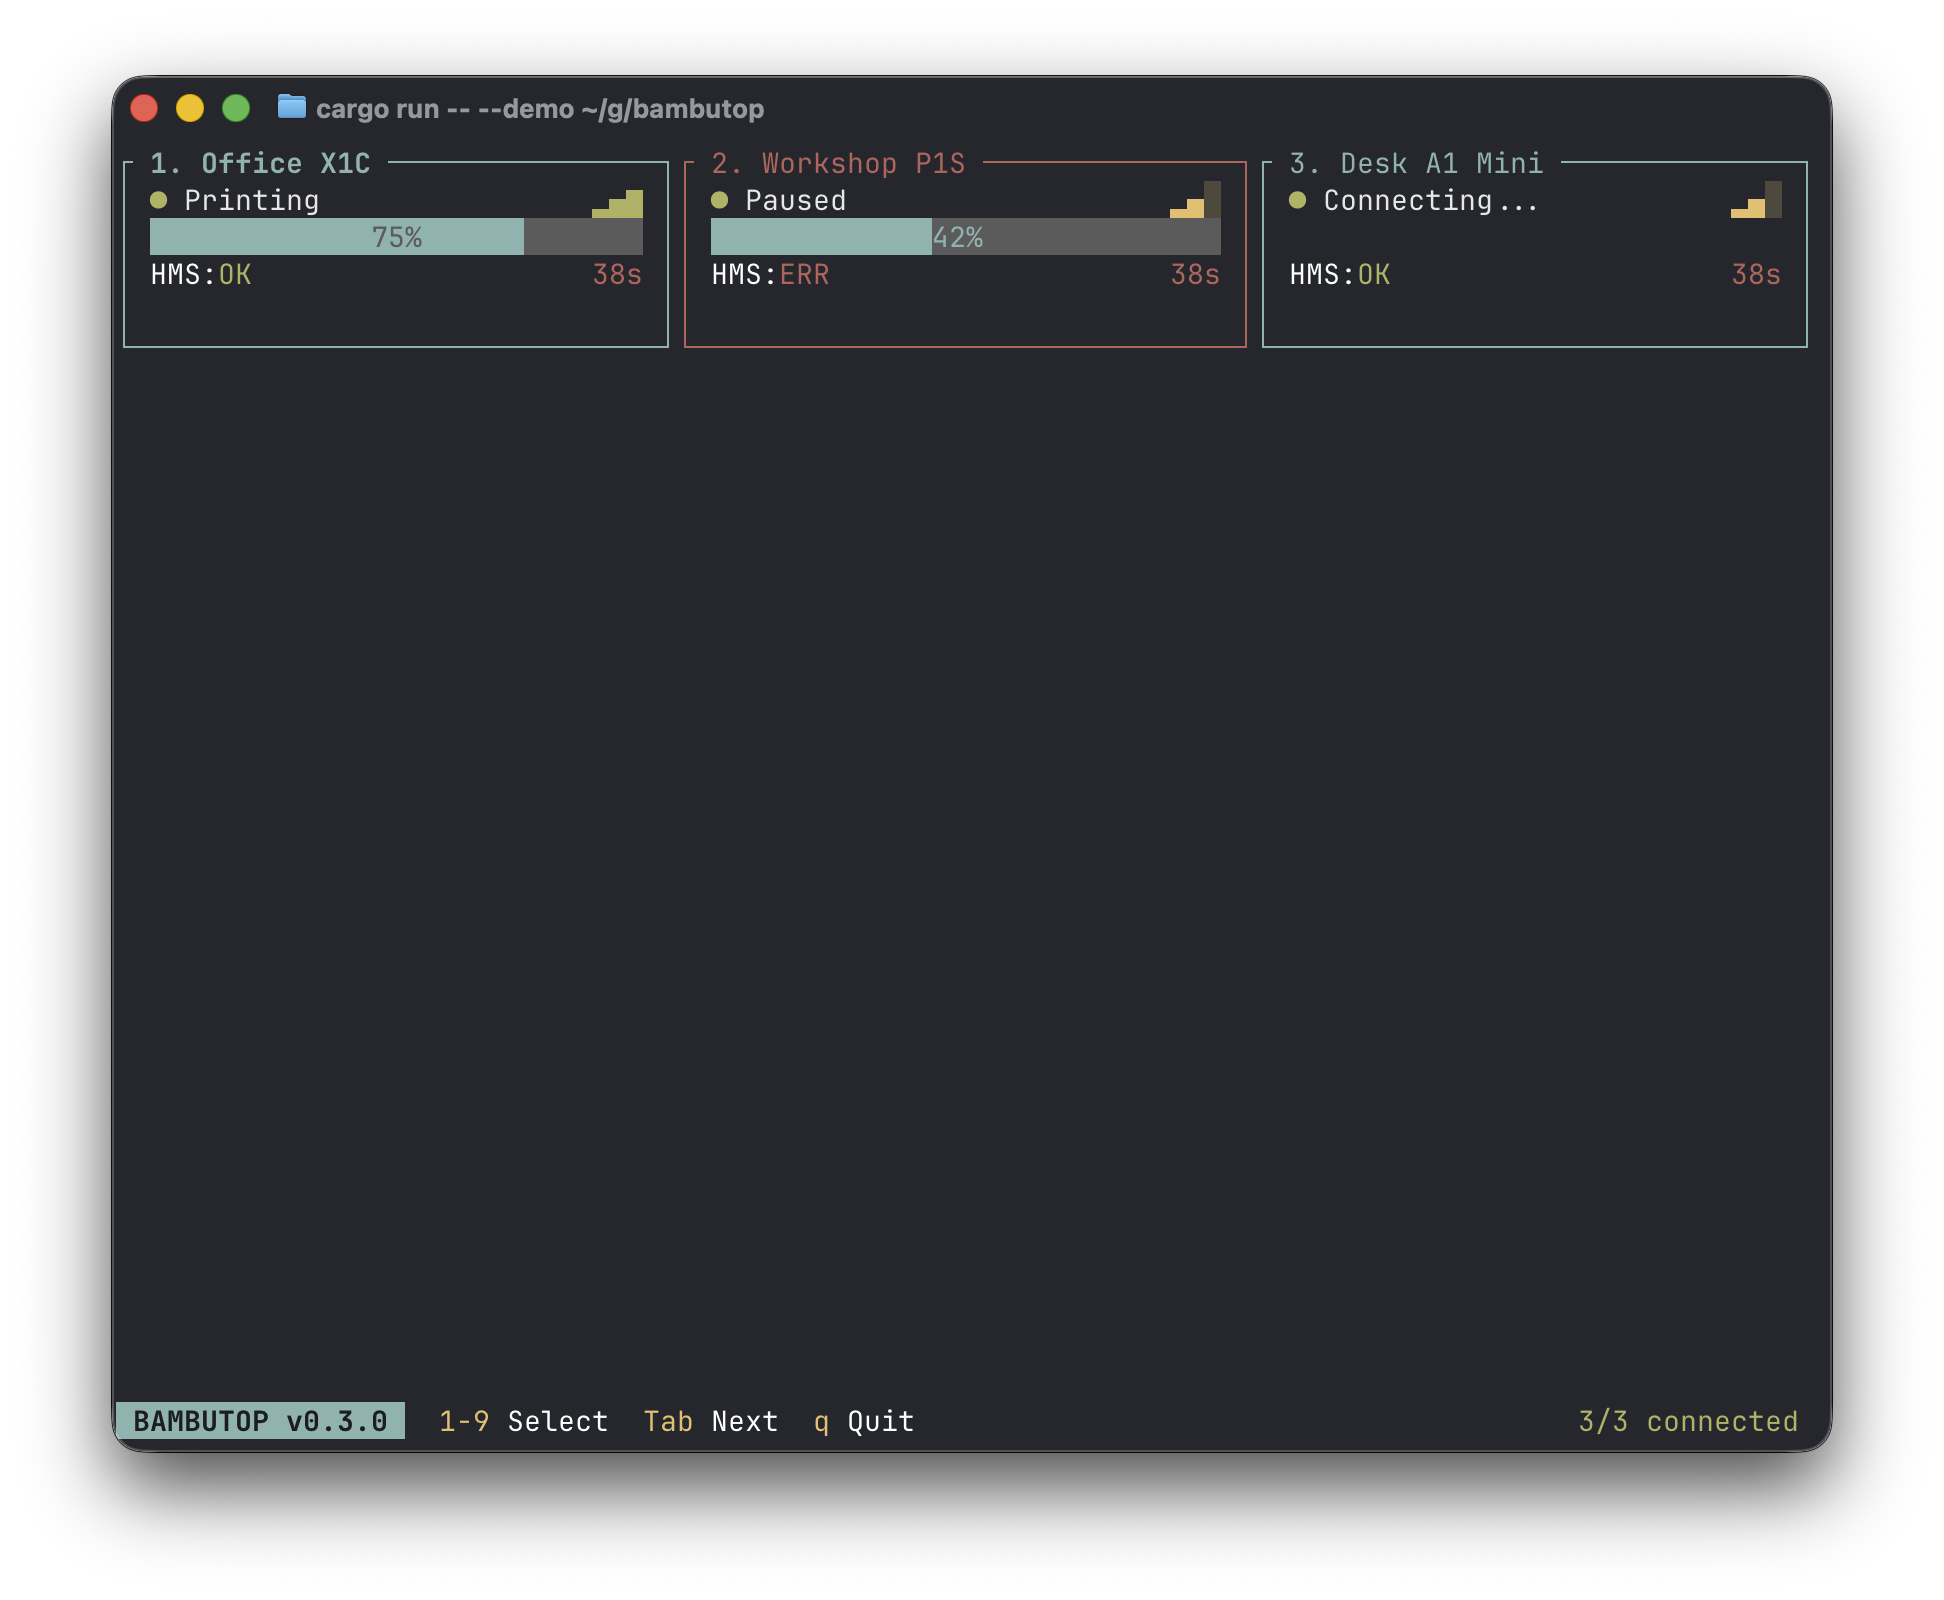
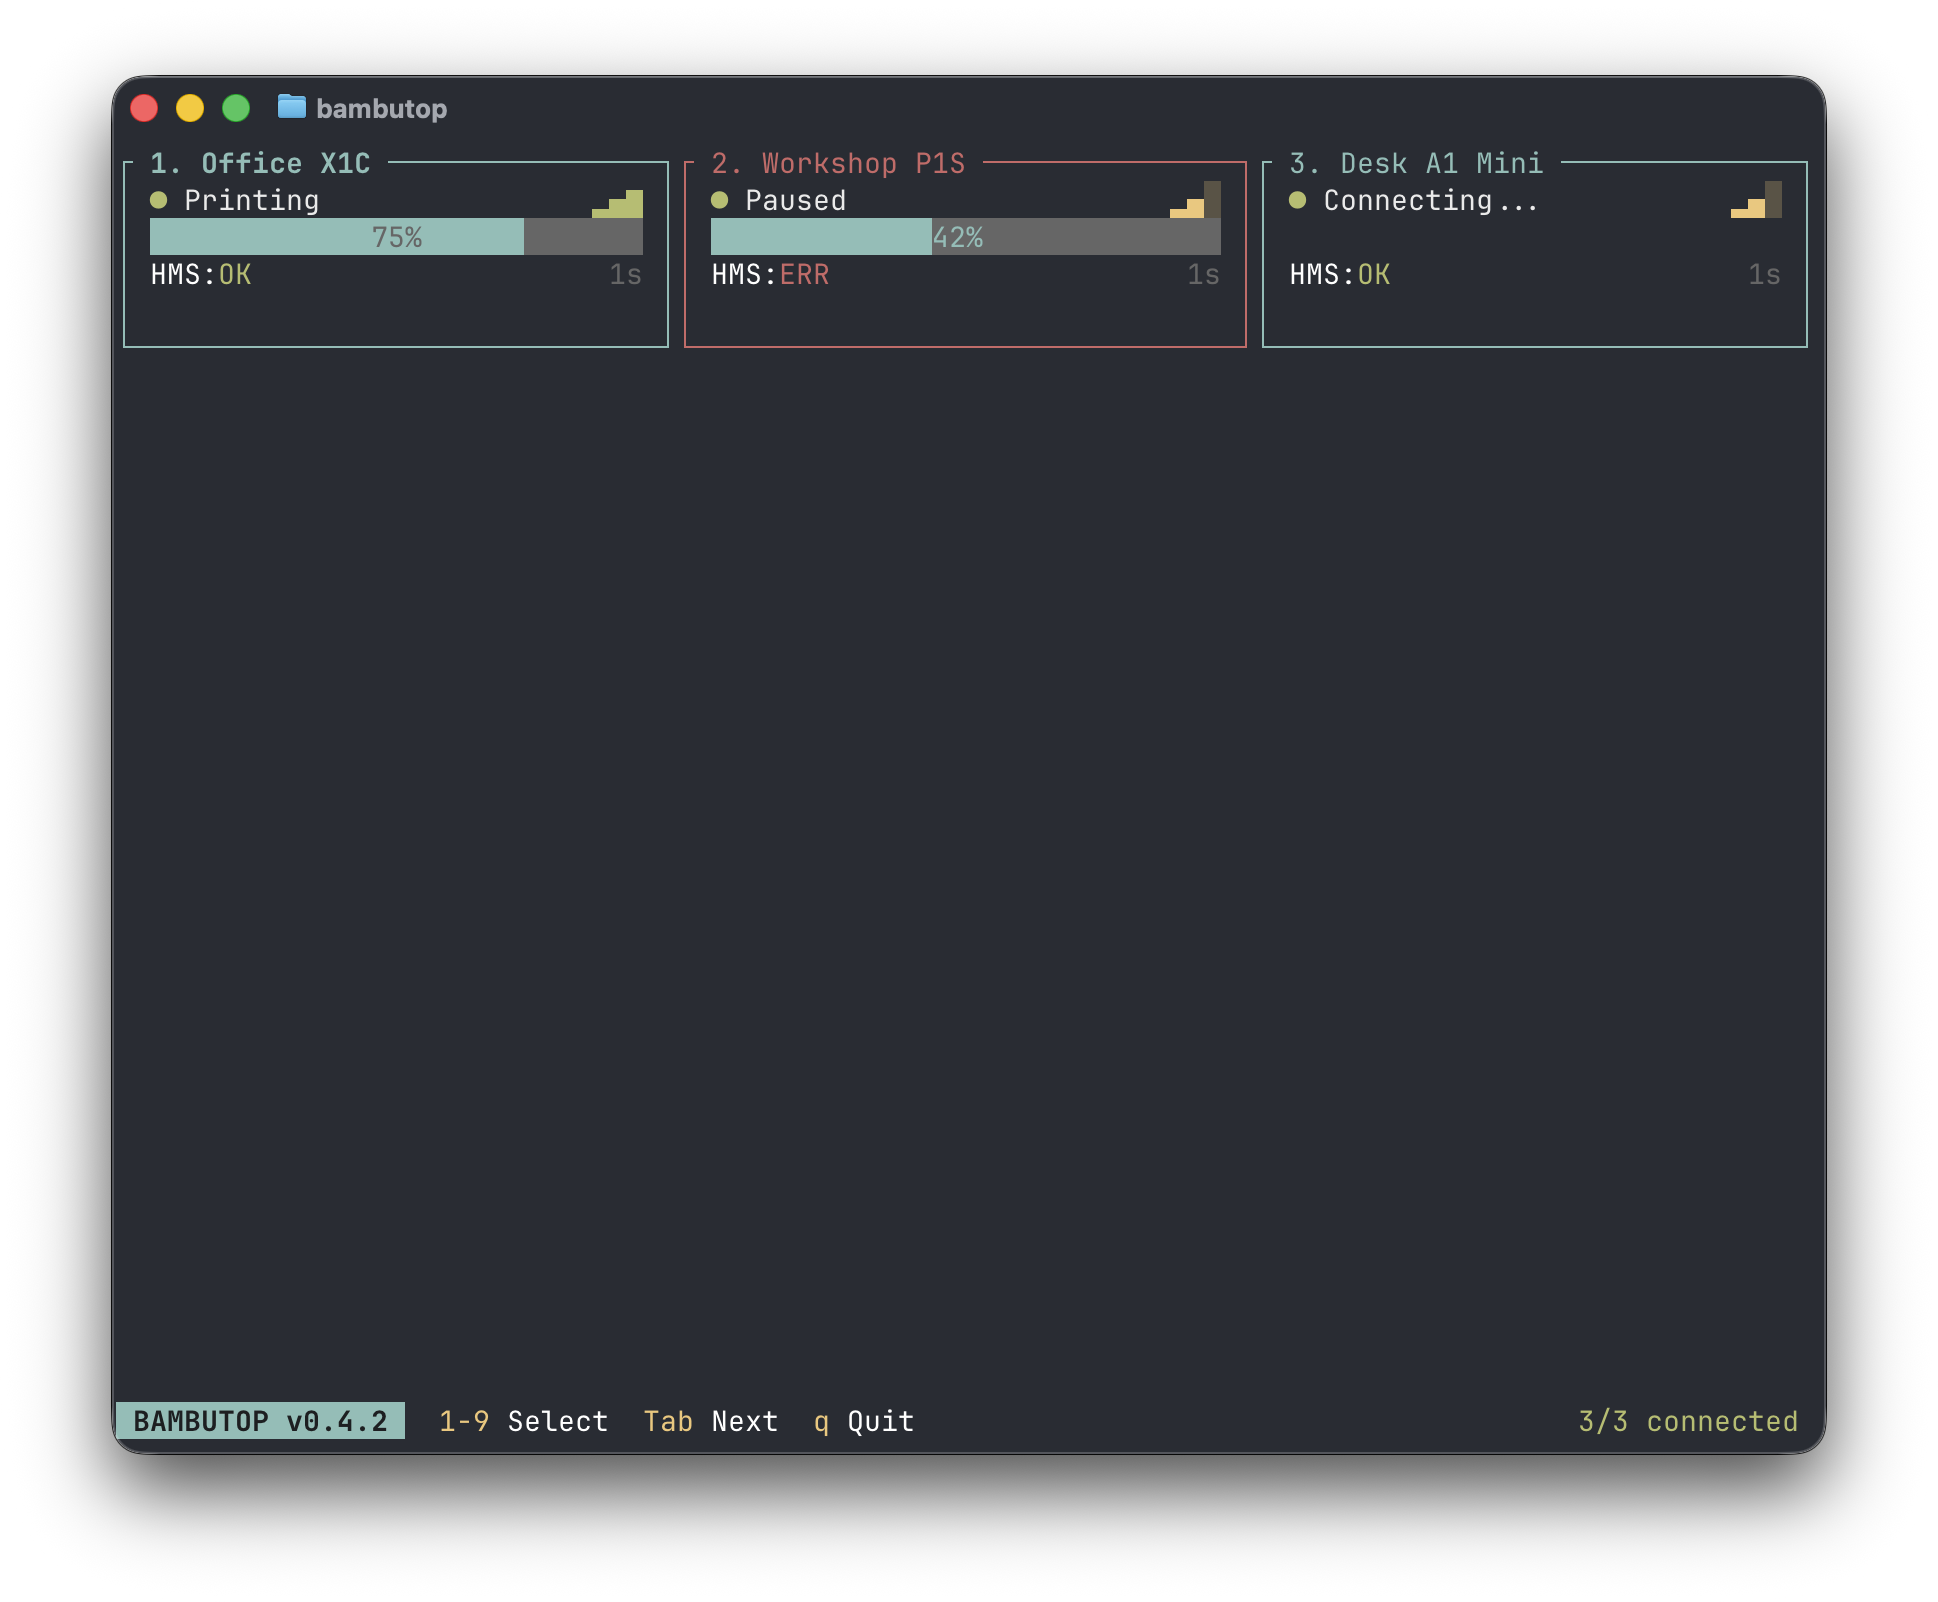
docs: update README, screenshots, and fix license field
- Replace screenshots with updated demo views (chamber temp visible)
- Fix demo X1C model string to match MQTT firmware identifier
- Fix Cargo.toml license field from MIT to GPL-3.0
- Refresh README: add C/F toggle, remove --demo from docs, tighten copy

diff --git a/src/demo.rs b/src/demo.rs
@@ -42,7 +42,7 @@ fn office_x1c() -> PrinterState {
     PrinterState {
         connected: true,
         printer_name: "Office X1C".to_string(),
-        printer_model: "X1 Carbon".to_string(),
+        printer_model: "Bambu Lab X1C".to_string(),
         serial_suffix: "0M09".to_string(),
         print_status: PrintStatus {
             gcode_file: "Benchy.gcode.3mf".to_string(),

diff --git a/README.md b/README.md
@@ -4,8 +4,8 @@
 
 A terminal-based status monitor for Bambu Lab printers. `htop`, but for your 3D printer.
 
-![BambuTop Detail View](screenshot-detail.png?v=2)
-![BambuTop Aggregate View](screenshot-aggregate.png?v=2)
+![BambuTop Detail View](screenshot-detail.png?v=3)
+![BambuTop Aggregate View](screenshot-aggregate.png?v=3)
 
 ## Features
 
@@ -16,7 +16,8 @@ A terminal-based status monitor for Bambu Lab printers. `htop`, but for your 3D 
 - Print failure reason and error codes when a job fails
 
 **Temperatures & Fans**
-- Nozzle, bed, and chamber temperatures with visual gauges (°C or °F)
+- Nozzle, bed, and chamber temperatures with visual gauges
+- Toggle between Celsius and Fahrenheit
 - Safe chamber temperature range based on active filament type (PLA, PETG, ABS, etc.)
 - Part cooling, auxiliary, chamber, and heatbreak fan speeds
 
@@ -46,8 +47,8 @@ A terminal-based status monitor for Bambu Lab printers. `htop`, but for your 3D 
 
 | Series | Models |
 |--------|--------|
-| P Series | P1P, P1S, P2S |
 | X Series | X1C, X1E |
+| P Series | P1P, P1S, P2S |
 | A Series | A1, A1 Mini |
 | H Series | H2C, H2S, H2D, H2D Pro |
 
@@ -86,19 +87,19 @@ cargo install --git https://github.com/rhoopr/bambutop.git
 
 ## Getting Started
 
-Run `bambutop` and follow the setup wizard to connect to your printer:
+Run `bambutop` and follow the setup wizard:
 
 ```bash
 bambutop
 ```
 
-You'll need three pieces of information:
+You'll need three pieces of information per printer:
 
 | Setting | Where to Find It |
 |---------|------------------|
-| **IP Address** | Router's connected devices list, or Bambu Studio → Device → Network |
-| **Serial Number** | Printer label, or Bambu Studio → Device info |
-| **Access Code** | Printer screen → Settings → Network → Access Code |
+| **IP Address** | Router's connected devices list, or Bambu Studio > Device > Network |
+| **Serial Number** | Printer label, or Bambu Studio > Device info |
+| **Access Code** | Printer screen > Settings > Network > Access Code |
 
 ## Multi-Printer Setup
 
@@ -142,7 +143,7 @@ Controls that affect the printer (`l`, `w`, `+/-`, `Space`, `c`) require unlocki
 ## Command-Line Options
 
 ```bash
-# Connect directly (saves to config file)
+# Connect directly (saves to config)
 bambutop --ip 192.168.1.100 --serial YOUR_SERIAL --access-code YOUR_CODE
 
 # Reset config and re-run setup wizard
